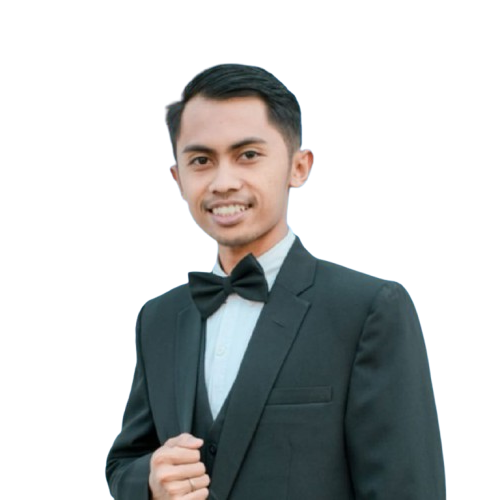
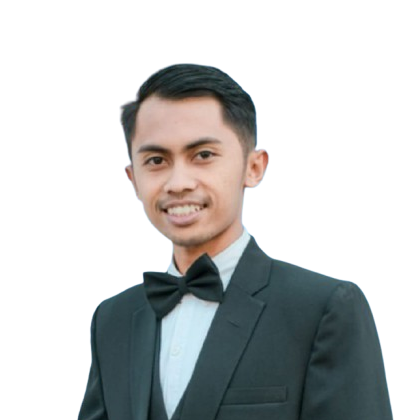
update portfolio 2

Changed region(s): [[0.1857, 0.1238, 0.9595, 1.0], [0.7429, 0.9286, 0.7738, 0.9595], [0.7429, 0.7738, 0.7738, 0.8048]]

diff --git a/index.html b/index.html
@@ -4,6 +4,7 @@
     <meta charset="UTF-8" />
     <meta name="viewport" content="width=device-width, initial-scale=1.0" />
     <link href="./src/output.css" rel="stylesheet" />
+    <link rel="icon" type="image/svg+xml" href="./src/siluet.png" />
 
     <title>Adi Portfolio</title>
   </head>
@@ -115,11 +116,7 @@
           </div>
           <div class="self-center">
             <div class="relative h-96 w-96 mt-10 lg:mt-0">
-              <img
-                src="./src/siluet.png"
-                alt="Adi"
-                class="max-w-full mx-auto"
-              />
+              <img src="./src/image.png" alt="Adi" class="max-w-full mx-auto" />
               <span class="absolute inset-0 -z-10 md:scale-125">
                 <svg
                   width="300"
@@ -208,7 +205,7 @@
             <h4 class="font-bold uppercase text-lg text-primary mb-2">
               Portfolio
             </h4>
-            <h2 class="font-bold text-dark text-3xl mb-4">New Project</h2>
+            <h2 class="font-bold text-dark text-3xl mb-4">Personal Project</h2>
             <p class="font-medium text-md text-slate-500 md:text-lg">
               Here are some website projects that I have created. we made this
               project based on research and ease of use of the website.
@@ -240,23 +237,23 @@
             </a>
           </div>
           <div class="mb-12 p-4 md:w-1/2">
-            <div class="rounded-md shadow-md overflow-hidden">
-              <img
-                src="./src/Screenshot 2025-03-22 061747.png"
-                alt="Landing Page"
-                class="w-full"
-              />
-            </div>
-            <div>
-              <h3 class="font-semibold text-xl text-dark mt-5 mb-3">
-                Landing Page Project
-              </h3>
-              <p class="text-base text-slate-500">
-                Lorem ipsum dolor sit amet consectetur, adipisicing elit.
-                Ducimus, aliquam enim. Mollitia deleniti cum est nesciunt quas
-                nihil cupiditate vel?
-              </p>
-            </div>
+            <a
+              href="https://food-q7l1lc85h-wirocodes-projects.vercel.app/"
+              target="_blank"
+            >
+              <div class="rounded-md shadow-md overflow-hidden">
+                <img src="./src/SS2.png" alt="Landing Page" class="w-full" />
+              </div>
+              <div>
+                <h3 class="font-semibold text-xl text-dark mt-5 mb-3">
+                  Food Delivery Project
+                </h3>
+                <p class="text-base text-slate-500">
+                  We created this project using the React js framework by
+                  keeping the aesthetic value of the UI and creating clean code.
+                </p>
+              </div>
+            </a>
           </div>
         </div>
       </div>
@@ -419,7 +416,8 @@
               Get closer with our best service.
             </h2>
             <p class="font-medium text-md text-slate-500 md:text-lg">
-              Don't waste this good opportunity and work with us. We will give you the best value.
+              Don't waste this good opportunity and work with us. We will give
+              you the best value.
             </p>
           </div>
 
